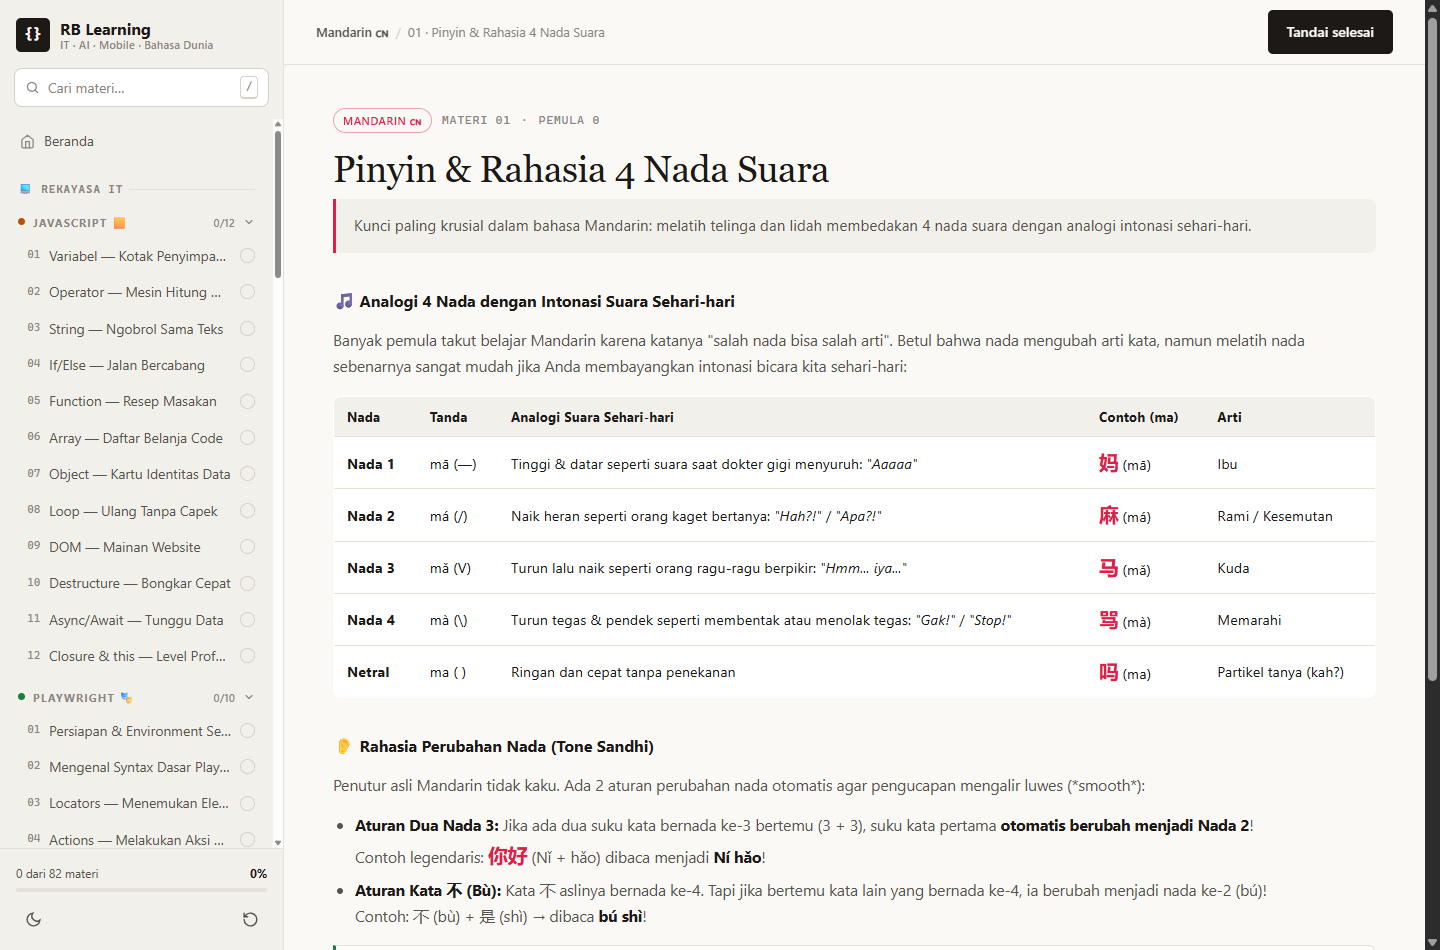
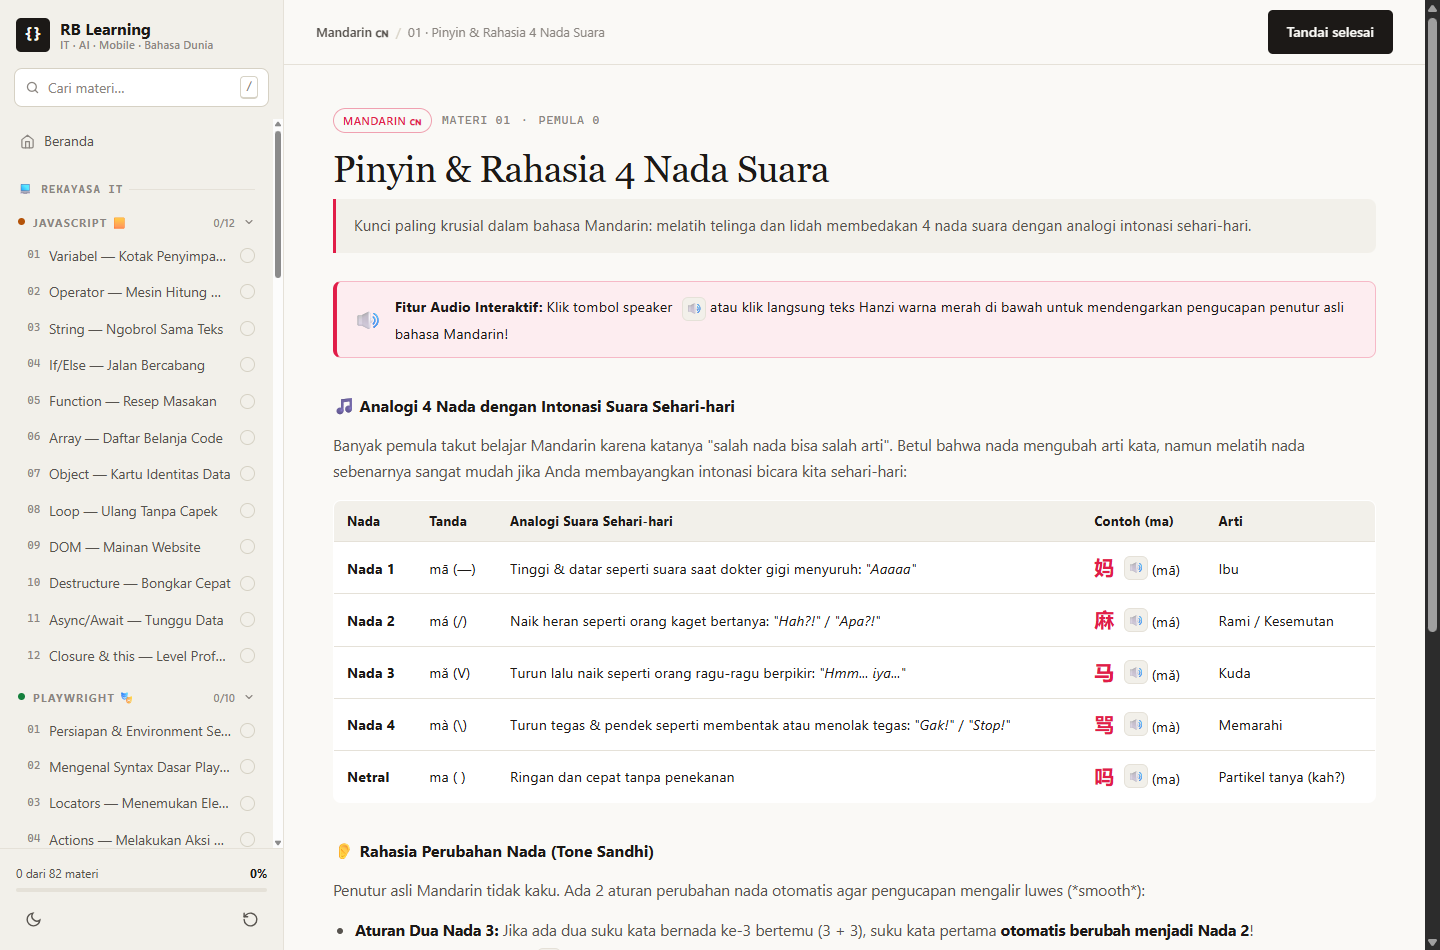
Add interactive audio speech pronunciation for Mandarin track (Web Speech API, buttons, and auto-speech)

diff --git a/js/app.js b/js/app.js
@@ -333,6 +333,25 @@ function viewHome() {
   scrollTop();
 }
 
+function speakMandarin(text) {
+  if (!('speechSynthesis' in window)) {
+    console.warn('SpeechSynthesis API tidak didukung peramban.');
+    return;
+  }
+  try {
+    window.speechSynthesis.cancel();
+    const u = new SpeechSynthesisUtterance(text);
+    u.lang = 'zh-CN';
+    u.rate = 0.82; // Kecepatan ramah pemula
+    const voices = window.speechSynthesis.getVoices();
+    const zhVoice = voices.find(v => v.lang && (v.lang.startsWith('zh') || v.lang.includes('Chinese')));
+    if (zhVoice) u.voice = zhVoice;
+    window.speechSynthesis.speak(u);
+  } catch (err) {
+    console.error('TTS Error:', err);
+  }
+}
+
 function viewLesson(id) {
   const l = BY_ID[id];
   if (!l) { location.hash = '#/'; return; }
@@ -346,6 +365,13 @@ function viewLesson(id) {
   setTopAction(doneButton(l));
   wireDoneButton(l);
 
+  const isMandarin = t.id === 'mandarin';
+  const audioBanner = isMandarin ? `
+    <div class="zh-audio-banner">
+      <span class="zh-audio-ic">🔊</span>
+      <div><b>Fitur Audio Interaktif:</b> Klik tombol speaker <button class="zh-speak-btn" style="pointer-events:none">🔊</button> atau klik langsung teks Hanzi warna merah di bawah untuk mendengarkan pengucapan penutur asli bahasa Mandarin!</div>
+    </div>` : '';
+
   $('#view').innerHTML = `
     <article class="lesson" style="--track:var(--${t.accent})">
       <div class="lesson-eyebrow">
@@ -356,6 +382,7 @@ function viewLesson(id) {
       <h1 class="lesson-title">${esc(l.title)}</h1>
       ${l.desc ? `<p class="lesson-desc">${esc(l.desc)}</p>` : ''}
       ${l.intro ? `<div class="lesson-callout">${l.intro}</div>` : ''}
+      ${audioBanner}
       <div class="lesson-body">${l.body}</div>
       <nav class="pager">
         ${prev
@@ -369,6 +396,37 @@ function viewLesson(id) {
   scrollTop();
   groupCards($('#view'));
   addCopyButtons($('#view'));
+
+  if (isMandarin) {
+    $('#view').querySelectorAll('.zh-char').forEach(el => {
+      const pureText = el.textContent.trim().replace(/[^\u4e00-\u9fa5]/g, '');
+      if (pureText && !el.querySelector('.zh-speak-btn')) {
+        el.dataset.speak = pureText;
+        el.title = `Klik untuk mendengarkan "${pureText}"`;
+        const btn = document.createElement('button');
+        btn.className = 'zh-speak-btn';
+        btn.dataset.speak = pureText;
+        btn.title = `Putar suara "${pureText}"`;
+        btn.innerHTML = '🔊';
+        el.appendChild(btn);
+      }
+    });
+
+    $('#view').querySelectorAll('.code-block').forEach(cb => {
+      const lines = cb.innerHTML.split('\n');
+      let changed = false;
+      const newLines = lines.map(line => {
+        const textOnly = line.replace(/<[^>]+>/g, '');
+        const match = textOnly.match(/[\u4e00-\u9fa5]{2,}/);
+        if (match && !line.includes('dialog-speak-btn')) {
+          changed = true;
+          return `${line} <button class="dialog-speak-btn" data-speak="${match[0]}" title="Putar suara kalimat">🔊</button>`;
+        }
+        return line;
+      });
+      if (changed) cb.innerHTML = newLines.join('\n');
+    });
+  }
 }
 
 /* kelompokkan keyword-card berurutan menjadi grid 2 kolom di layar lebar */
@@ -710,3 +768,17 @@ document.addEventListener('keydown', e => {
     if (dest) location.hash = '#/m/' + dest.id;
   }
 });
+
+/* ---------- audio speech mandarin click listener ---------- */
+document.addEventListener('click', e => {
+  const target = e.target.closest('[data-speak]');
+  if (target) {
+    const text = target.dataset.speak;
+    if (text) {
+      speakMandarin(text);
+      target.classList.add('speaking');
+      setTimeout(() => target.classList.remove('speaking'), 800);
+    }
+  }
+});
+

diff --git a/css/style.css b/css/style.css
@@ -373,10 +373,51 @@ kbd{
 }
 .zh-table tr:last-child td{border-bottom:none}
 .zh-char{
+  cursor:pointer;display:inline-flex;align-items:center;gap:4px;
   font-size:1.22rem;font-weight:bold;color:var(--rose);font-family:"Microsoft YaHei","PingFang SC",sans-serif;
+  transition:color .15s,opacity .15s;
 }
+.zh-char:hover{opacity:.85}
 .zh-pinyin{
   font-family:var(--font-mono);font-size:.85rem;color:var(--ink-2);
+}
+
+/* Audio & Pronunciation for Mandarin */
+.zh-audio-banner{
+  display:flex;align-items:center;gap:12px;
+  background:color-mix(in srgb, var(--rose) 8%, var(--card));
+  border:1px solid color-mix(in srgb, var(--rose) 25%, transparent);
+  border-left:4px solid var(--rose);
+  padding:12px 16px;border-radius:var(--r-m);
+  margin-bottom:24px;font-size:.9rem;color:var(--ink);
+}
+.zh-audio-ic{font-size:1.35rem;flex:none}
+.zh-speak-btn{
+  display:inline-flex;align-items:center;justify-content:center;
+  background:var(--paper-2);border:1px solid var(--line);
+  border-radius:6px;width:24px;height:24px;font-size:.8rem;
+  cursor:pointer;margin-left:6px;vertical-align:middle;
+  transition:background .15s,transform .15s,border-color .15s;
+  color:var(--ink-2);padding:0;line-height:1;
+}
+.zh-speak-btn:hover{
+  background:var(--rose);color:#fff;border-color:var(--rose);transform:scale(1.15);
+}
+.zh-speak-btn.speaking{
+  background:var(--rose);color:#fff;border-color:var(--rose);animation:pulse-speak .5s infinite alternate;
+}
+@keyframes pulse-speak{
+  from{transform:scale(1)}
+  to{transform:scale(1.2)}
+}
+.dialog-speak-btn{
+  background:var(--paper-2);border:1px solid var(--line);border-radius:4px;
+  padding:2px 8px;font-size:.76rem;cursor:pointer;color:var(--ink-2);
+  display:inline-flex;align-items:center;gap:4px;margin-left:8px;
+  transition:background .15s,color .15s,border-color .15s;
+}
+.dialog-speak-btn:hover{
+  background:var(--rose);color:#fff;border-color:var(--rose);
 }
 
 /* Track Cards Grid (Scalable to 10+ tracks) */
